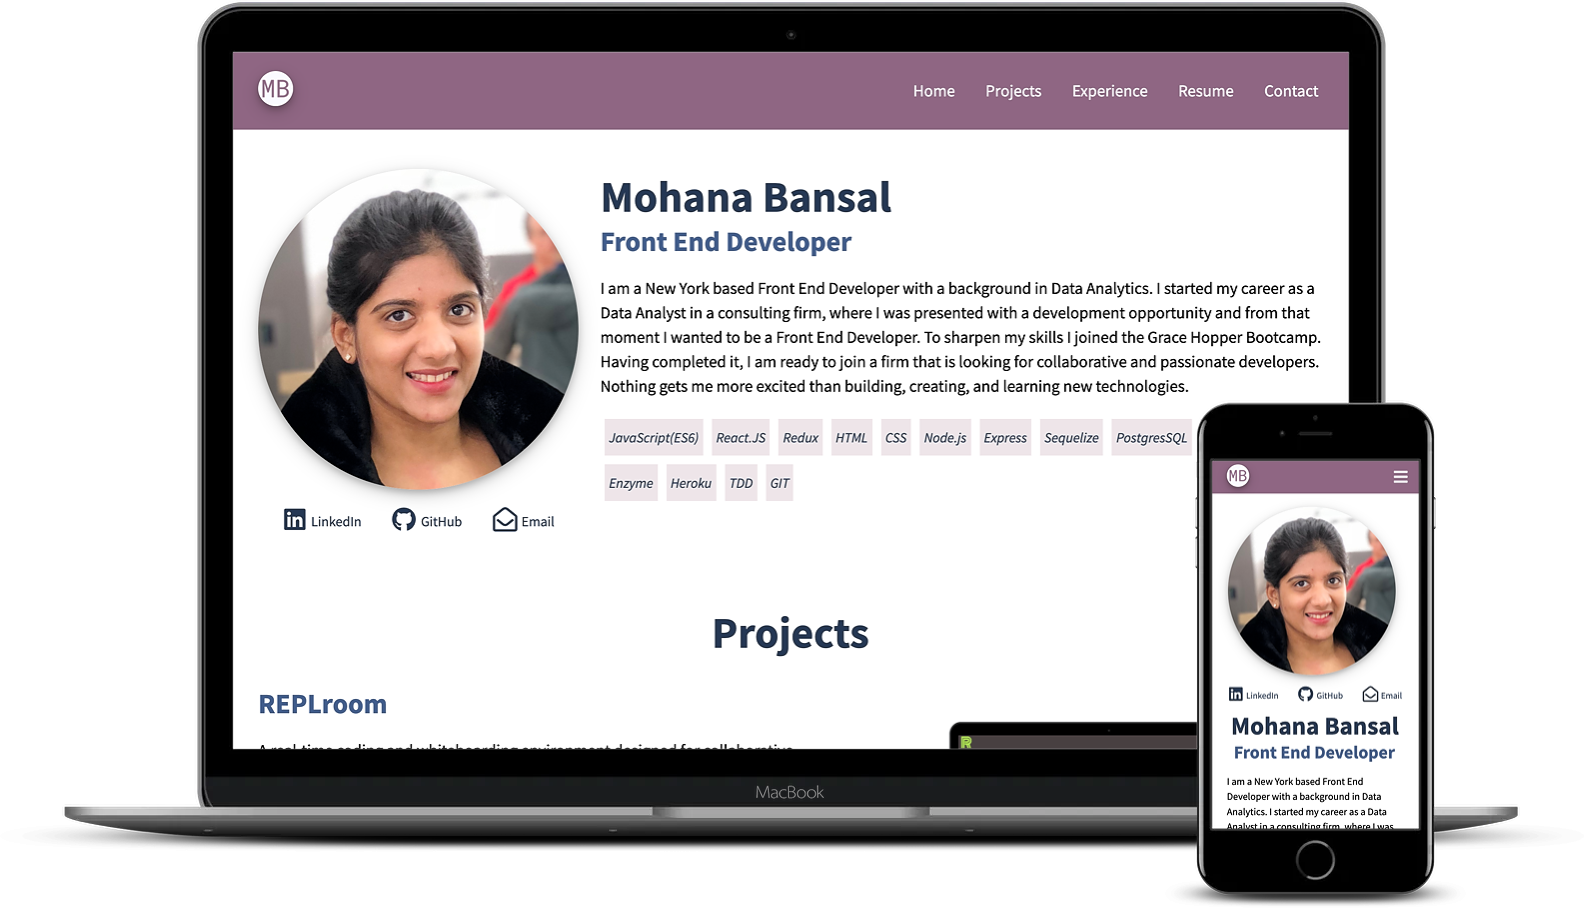
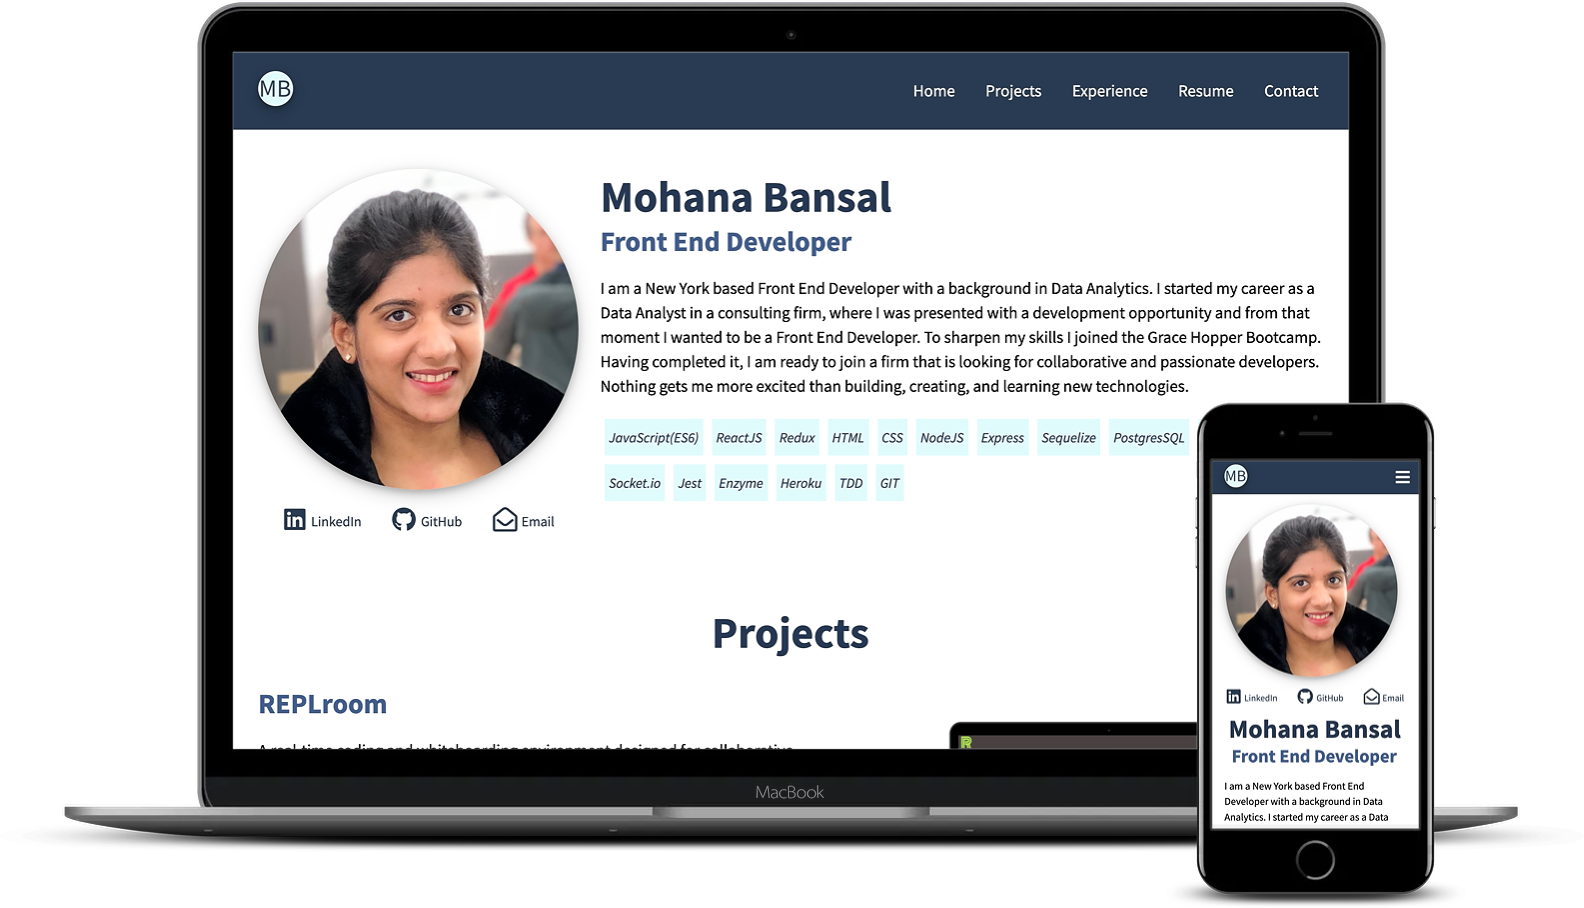
updated color theme

diff --git a/client/components/menubar/index.css b/client/components/menubar/index.css
@@ -56,7 +56,8 @@ html {
     justify-content: flex-end;
     align-items: center;
     width: 100%;
-    background-color: #8f6682;
+    /* background-color: #8f6682; */
+    background-color: #283a53;
     margin-bottom: 35px;
     font-size: 19px;
     text-align: end;
@@ -76,7 +77,8 @@ html {
     display: flex;
     margin-right: 50px;
     margin-left: auto;
-    background-color: #8f6682;
+    /* background-color: #8f6682; */
+    background-color: #283a53;
     border: none;
     outline: none;
   }
@@ -92,9 +94,14 @@ html {
     top: 15px;
     right: 0;
     padding-right: 20px;
-    background-color: #8f6682;
+    /* background-color: #8f6682; */
+    background-color: #283a53;
     border: none;
     outline: none;
+  }
+
+  #menu-open .menu-left {
+    padding-top: 8px;
   }
 
   #menu-open a {
@@ -104,7 +111,7 @@ html {
 
   #menu-open a:hover {
     text-decoration: underline;
-    color: #d0c0b3;
+    color: #7baecc;
   }
 
   #menu-open .menu-items {
